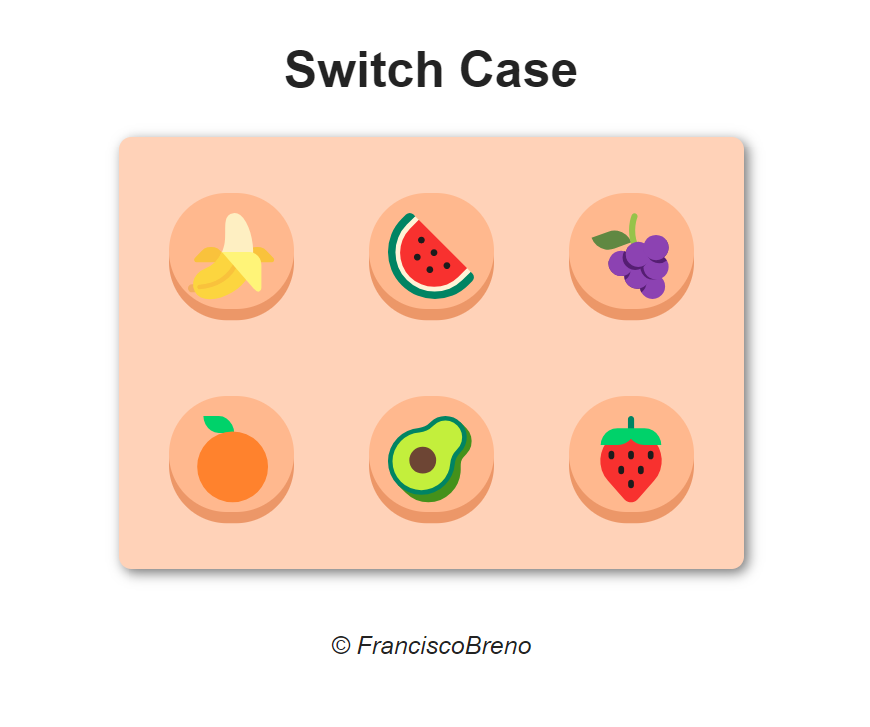
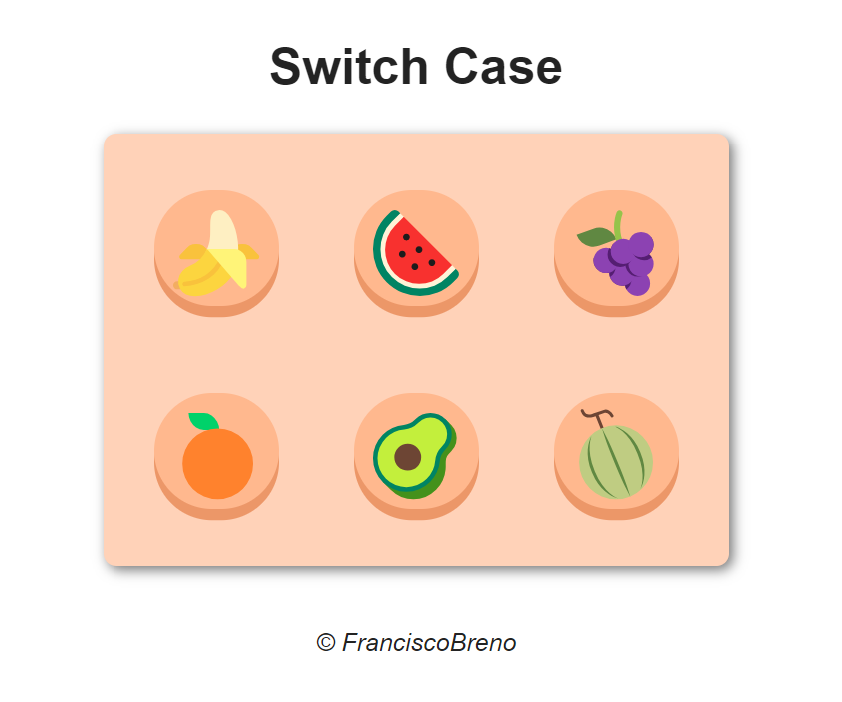
mudanças no designe

diff --git a/script/script.js b/script/script.js
@@ -7,10 +7,12 @@ frutas.forEach(function (botao) {
     switch (botao.innerText) {
       case "🍌":
         document.body.style.backgroundColor = "#f1c329";
+        document.querySelector("header").style.color = "black";
+        document.querySelector("footer").style.color = "black";
         break;
 
       case "🍉":
-        document.body.style.backgroundColor = "#F68574";
+        document.body.style.backgroundColor = "#f22d2d";
         break;
 
       case "🍇":
@@ -21,12 +23,14 @@ frutas.forEach(function (botao) {
         document.body.style.backgroundColor = "#F8762A";
         break;
 
-      case "🍓":
-        document.body.style.backgroundColor = "#f22d2d";
+      case "🍈":
+        document.body.style.backgroundColor = "#a9d399";
+        document.querySelector("header").style.color = "black";
+        document.querySelector("footer").style.color = "black";
         break;
 
       case "🥑":
-        document.body.style.backgroundColor = "#24d147";
+        document.body.style.backgroundColor = "#059a23";
         break;
 
       default:

diff --git a/index.html b/index.html
@@ -18,7 +18,7 @@
         <button class="fruta">🍇</button>
         <button class="fruta">🍊</button>
         <button class="fruta">🥑</button>
-        <button class="fruta">🍓</button>
+        <button class="fruta">🍈</button>
       </div>
     </section>
     <footer>
